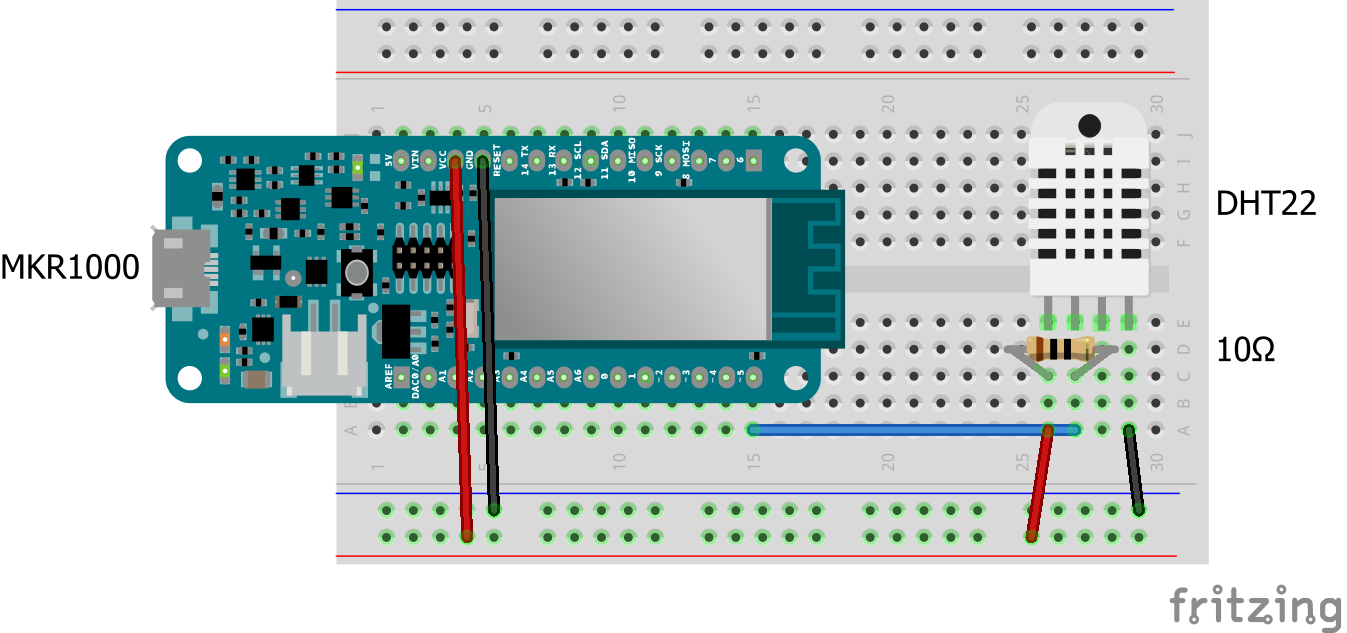
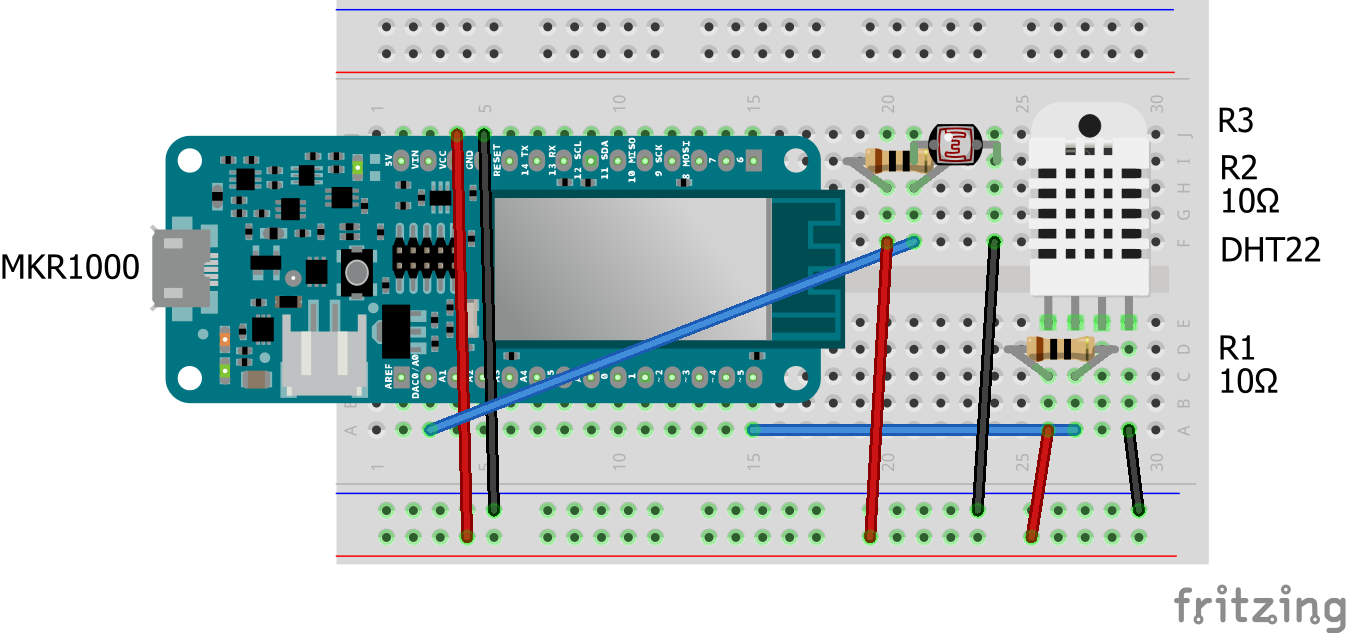
Updated documentation for photoresistor

diff --git a/README.md b/README.md
@@ -26,6 +26,7 @@ Name                   | Type     | Default Value   | Description
 LED_PIN                | uint8_t  | [LED_BUILTIN]   | Pin of the status LED
 DHT_PIN                | uint8_t  | 5               | Data pin of the DHT sensor
 DHT_TYPE               | uint8_t  | [DHT22]         | Type of the DTH sensor
+PHOTORESISTOR_PIN      | uint8_t  | 1               | Pin of the photoresistor
 UPDATE_INTERVAL        | uint32_t | 5 * 60          | Update interval in seconds (not guaranteed to be achieved)
 LOG_DATA               | bool     | false           | Log the recorded data to Ubidots
 WLAN_SSID              | char*    | -               | WLAN SSID
@@ -33,15 +34,20 @@ WLAN_PASSWORD          | char*    | -               | WLAN Password (secret)
 UBIDOTS_TOKEN          | char*    | -               | Ubidots token (secret)
 UBIDOTS_ID_TEMPERATURE | char*    | -               | Ubidots temperature source id
 UBIDOTS_ID_HUMIDITY    | char*    | -               | Ubidots humidity source id
+UBIDOTS_ID_BRIGHTNESS  | char*    | -               | Ubidots brightness source id
 
 ## Hardware
 - 1x Arduino MKR1000 (WiFi101 Firmware v19.4.4)
 - 1x DHT22 sensor
 - 1x Resistor 10 kR
 
-[Breadboard Version](/circuit/Breadboard.png)
+Optional:
+- 1x Photoresistor
+- 1x Resistor 10 kR
 
-![Circuit](/circuit/Circuit.png)
+![Breadboard](/circuit/Breadboard.png)
+
+[Circuit - without Photoresistor](/circuit/Circuit - without Photoresistor.png)
 
 ## Documentation
 ### Status LED
@@ -52,6 +58,9 @@ The following states are communicated using the onboard LED:
 - Idle:         LED is off (waiting for next update)
 - Failing:      LED blinks (last update failed)
 
+### Serial Bus
+All actions are communicated through the serial interface. This can be used for wired operation or debugging.
+
 ### Data Logging (Ubidots)
 If turned on (`LOG_DATA`), the temperature and humidity readings will be send to your [Ubidots](https://ubidots.com/) account.  
 This requires an active network connection (`WLAN_SSID` and `WLAN_PASSWORD`), a Ubidots token (`UBIDOTS_TOKEN`) and the data source IDs (`UBIDOTS_ID_TEMPERATURE` and `UBIDOTS_ID_HUMIDITY`) to be configured.
@@ -59,11 +68,11 @@ This requires an active network connection (`WLAN_SSID` and `WLAN_PASSWORD`), a 
 ### Data Logging (ThingSpeak)
 Logging data to ThingSpeak was removed in commit #147cc09 because it was not reliable.
 
-### Serial Bus
-All actions are communicated through the serial interface. This can be used for wired operation or debugging.
-
 ### Failing to read/ log data
 If reading any sensor, connecting to the network or logging data fails, it is retried for up to a total of three times.
+
+### Photoresistor
+If you don't want to use a photoresistor, revert the changes of commit #a100466 or remove the corresponding code.
 
 ## Libraries
 - SPI v1.0.0 by Arduino
